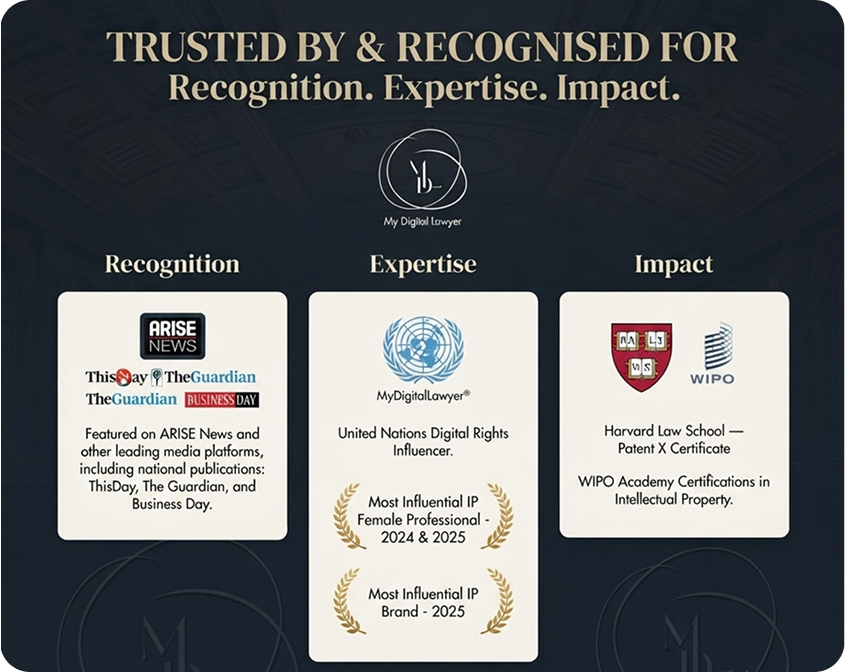
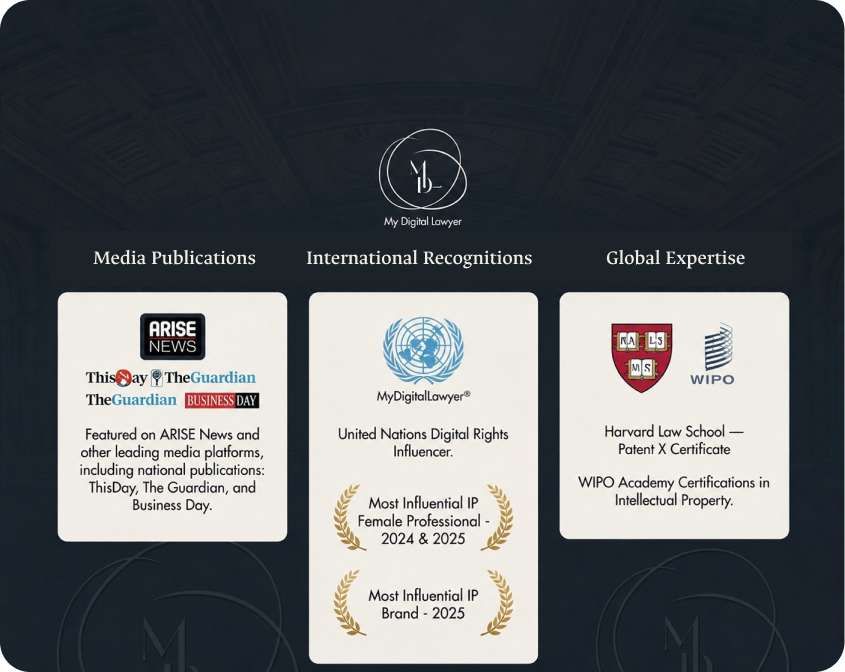
feat: update TrustedSection text and add new trusted image

diff --git a/app/TrustedSection.tsx b/app/TrustedSection.tsx
@@ -16,7 +16,7 @@ const TrustedSection: React.FC = () => {
         <Section className={`${openSans.className} gap-6 md:gap-10`}>
             <div className="flex flex-col max-w-4xl gap-6 text-center md:text-left">
                 <AncizarH4 className="text-primary">
-                    Trusted By & Recognised For <br /> Recognition. Expertise. Impact.
+                    Trusted & Recognised For <br /> Recognition. Expertise. Impact.
                 </AncizarH4>
 
                 <p className="text-neutral-content opacity-60 text-sm md:text-base/6 font-normal">
